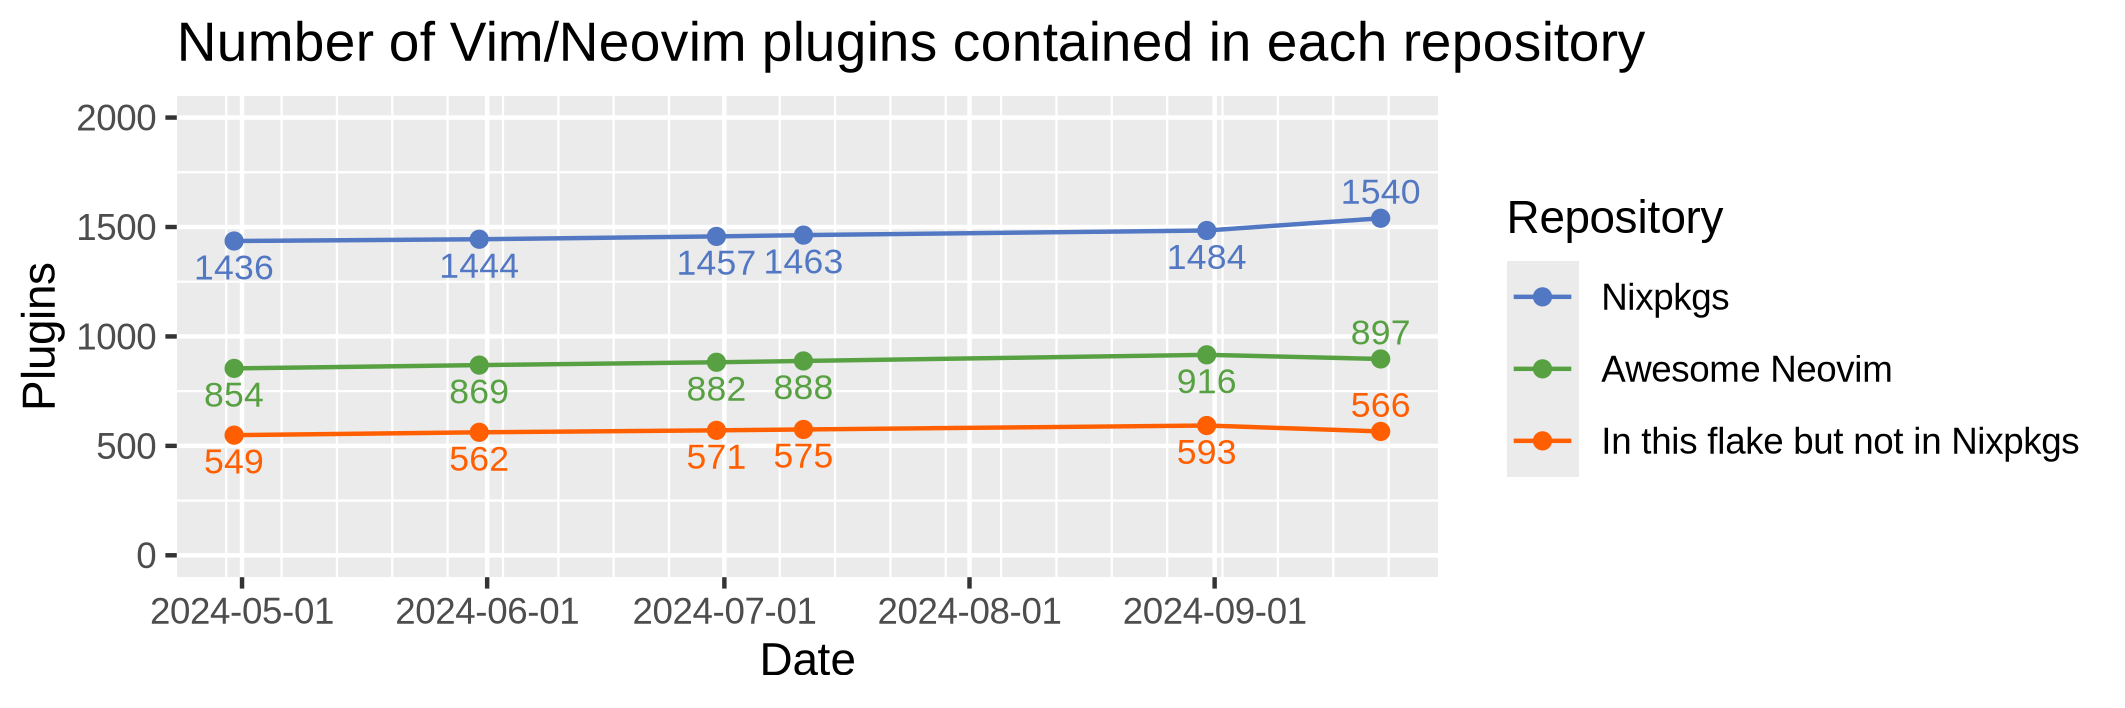
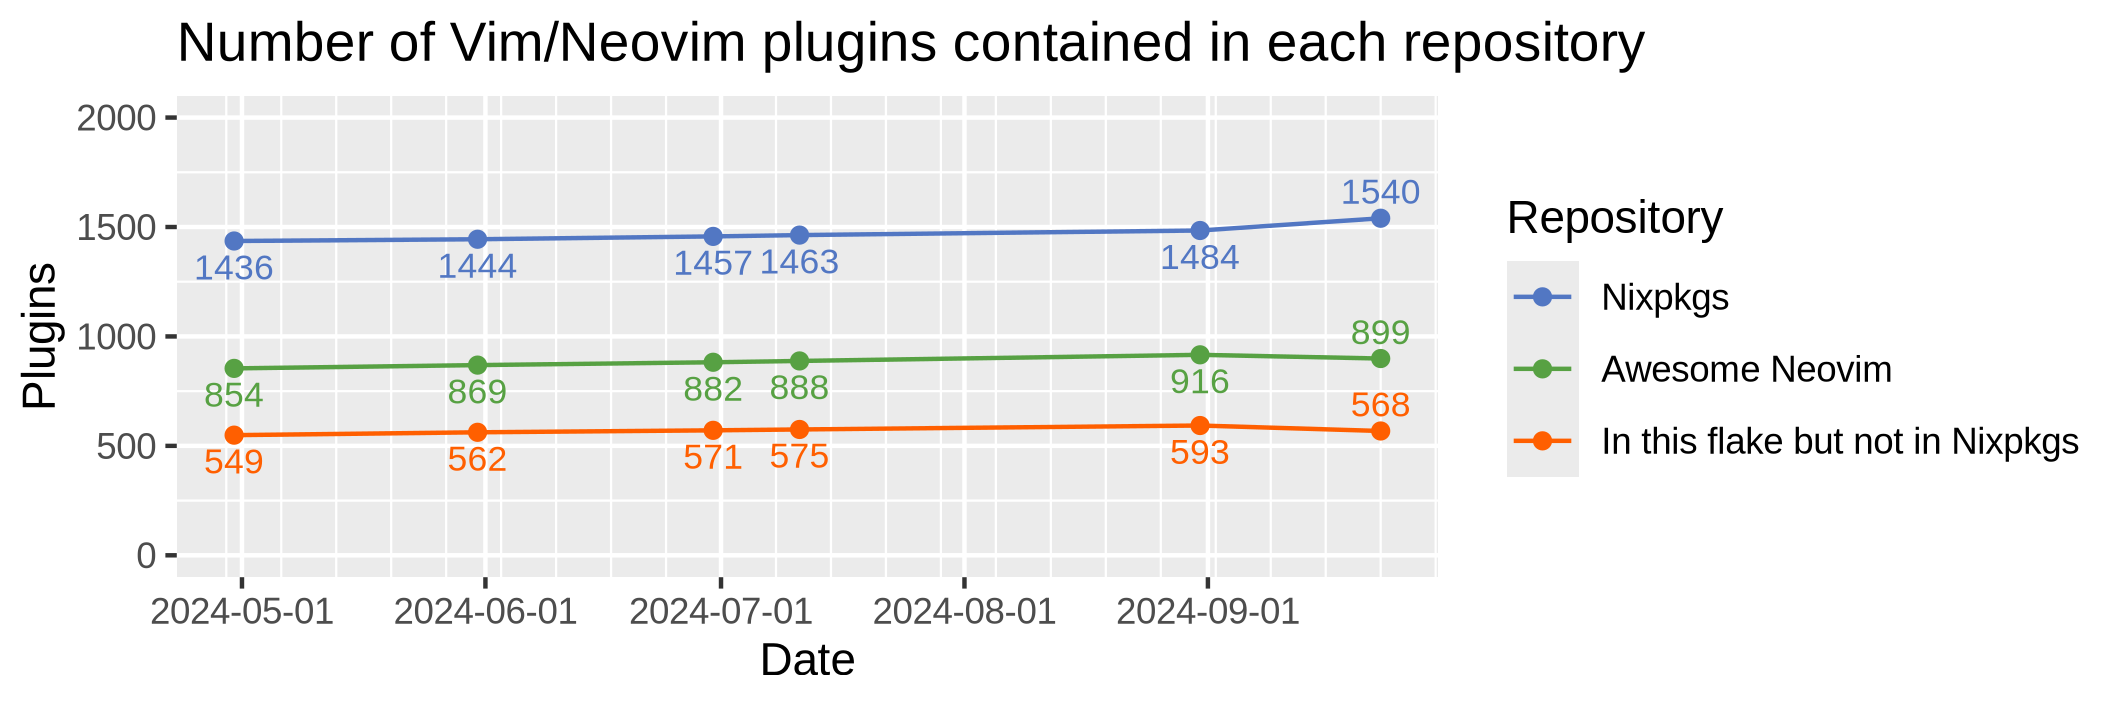
auto: update vim plugins

diff --git a/README.md b/README.md
@@ -8,7 +8,7 @@ Nix flake of Awesome Neovim plugins.
 
 [b1]: https://img.shields.io/github/actions/workflow/status/m15a/flake-awesome-neovim-plugins/check.yml?style=flat-square&logo=github&label=CI
 [b2]: https://github.com/m15a/flake-awesome-neovim-plugins/actions/workflows/check.yml
-[b3]: https://img.shields.io/badge/Awesome_Neovim_plugins-897-57A143?style=flat-square
+[b3]: https://img.shields.io/badge/Awesome_Neovim_plugins-899-57A143?style=flat-square
 [b4]: https://img.shields.io/endpoint?url=https://flakehub.com/f/m15a/flake-awesome-neovim-plugins/badge&style=flat-square
 [b5]: https://flakehub.com/flake/m15a/flake-awesome-neovim-plugins
 
